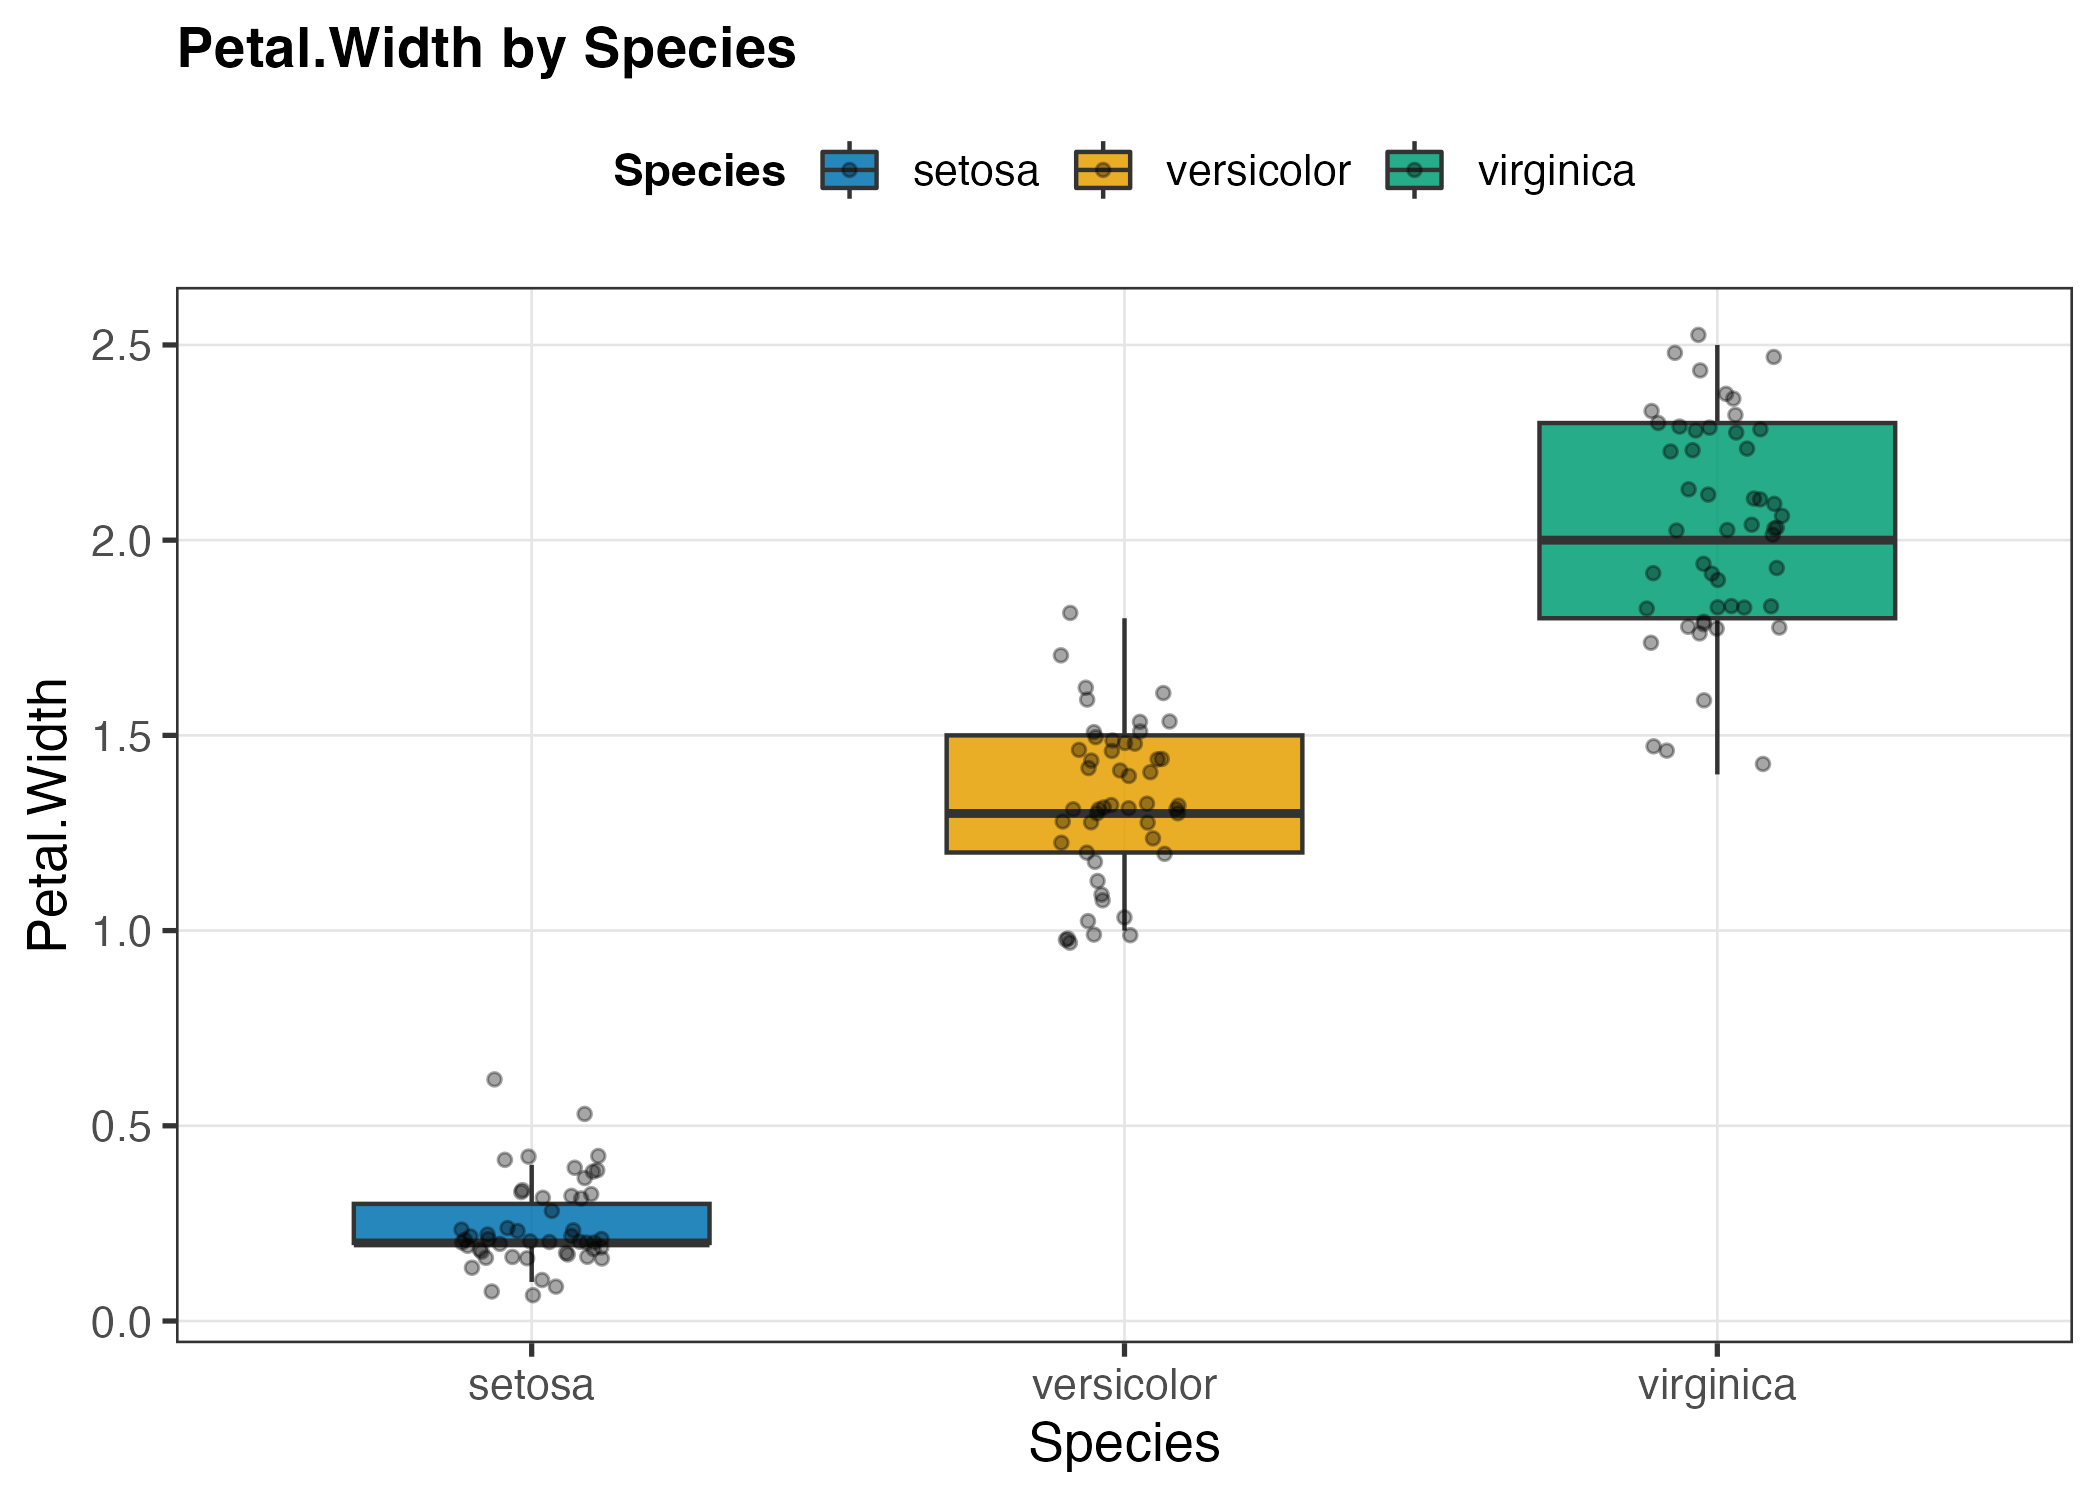
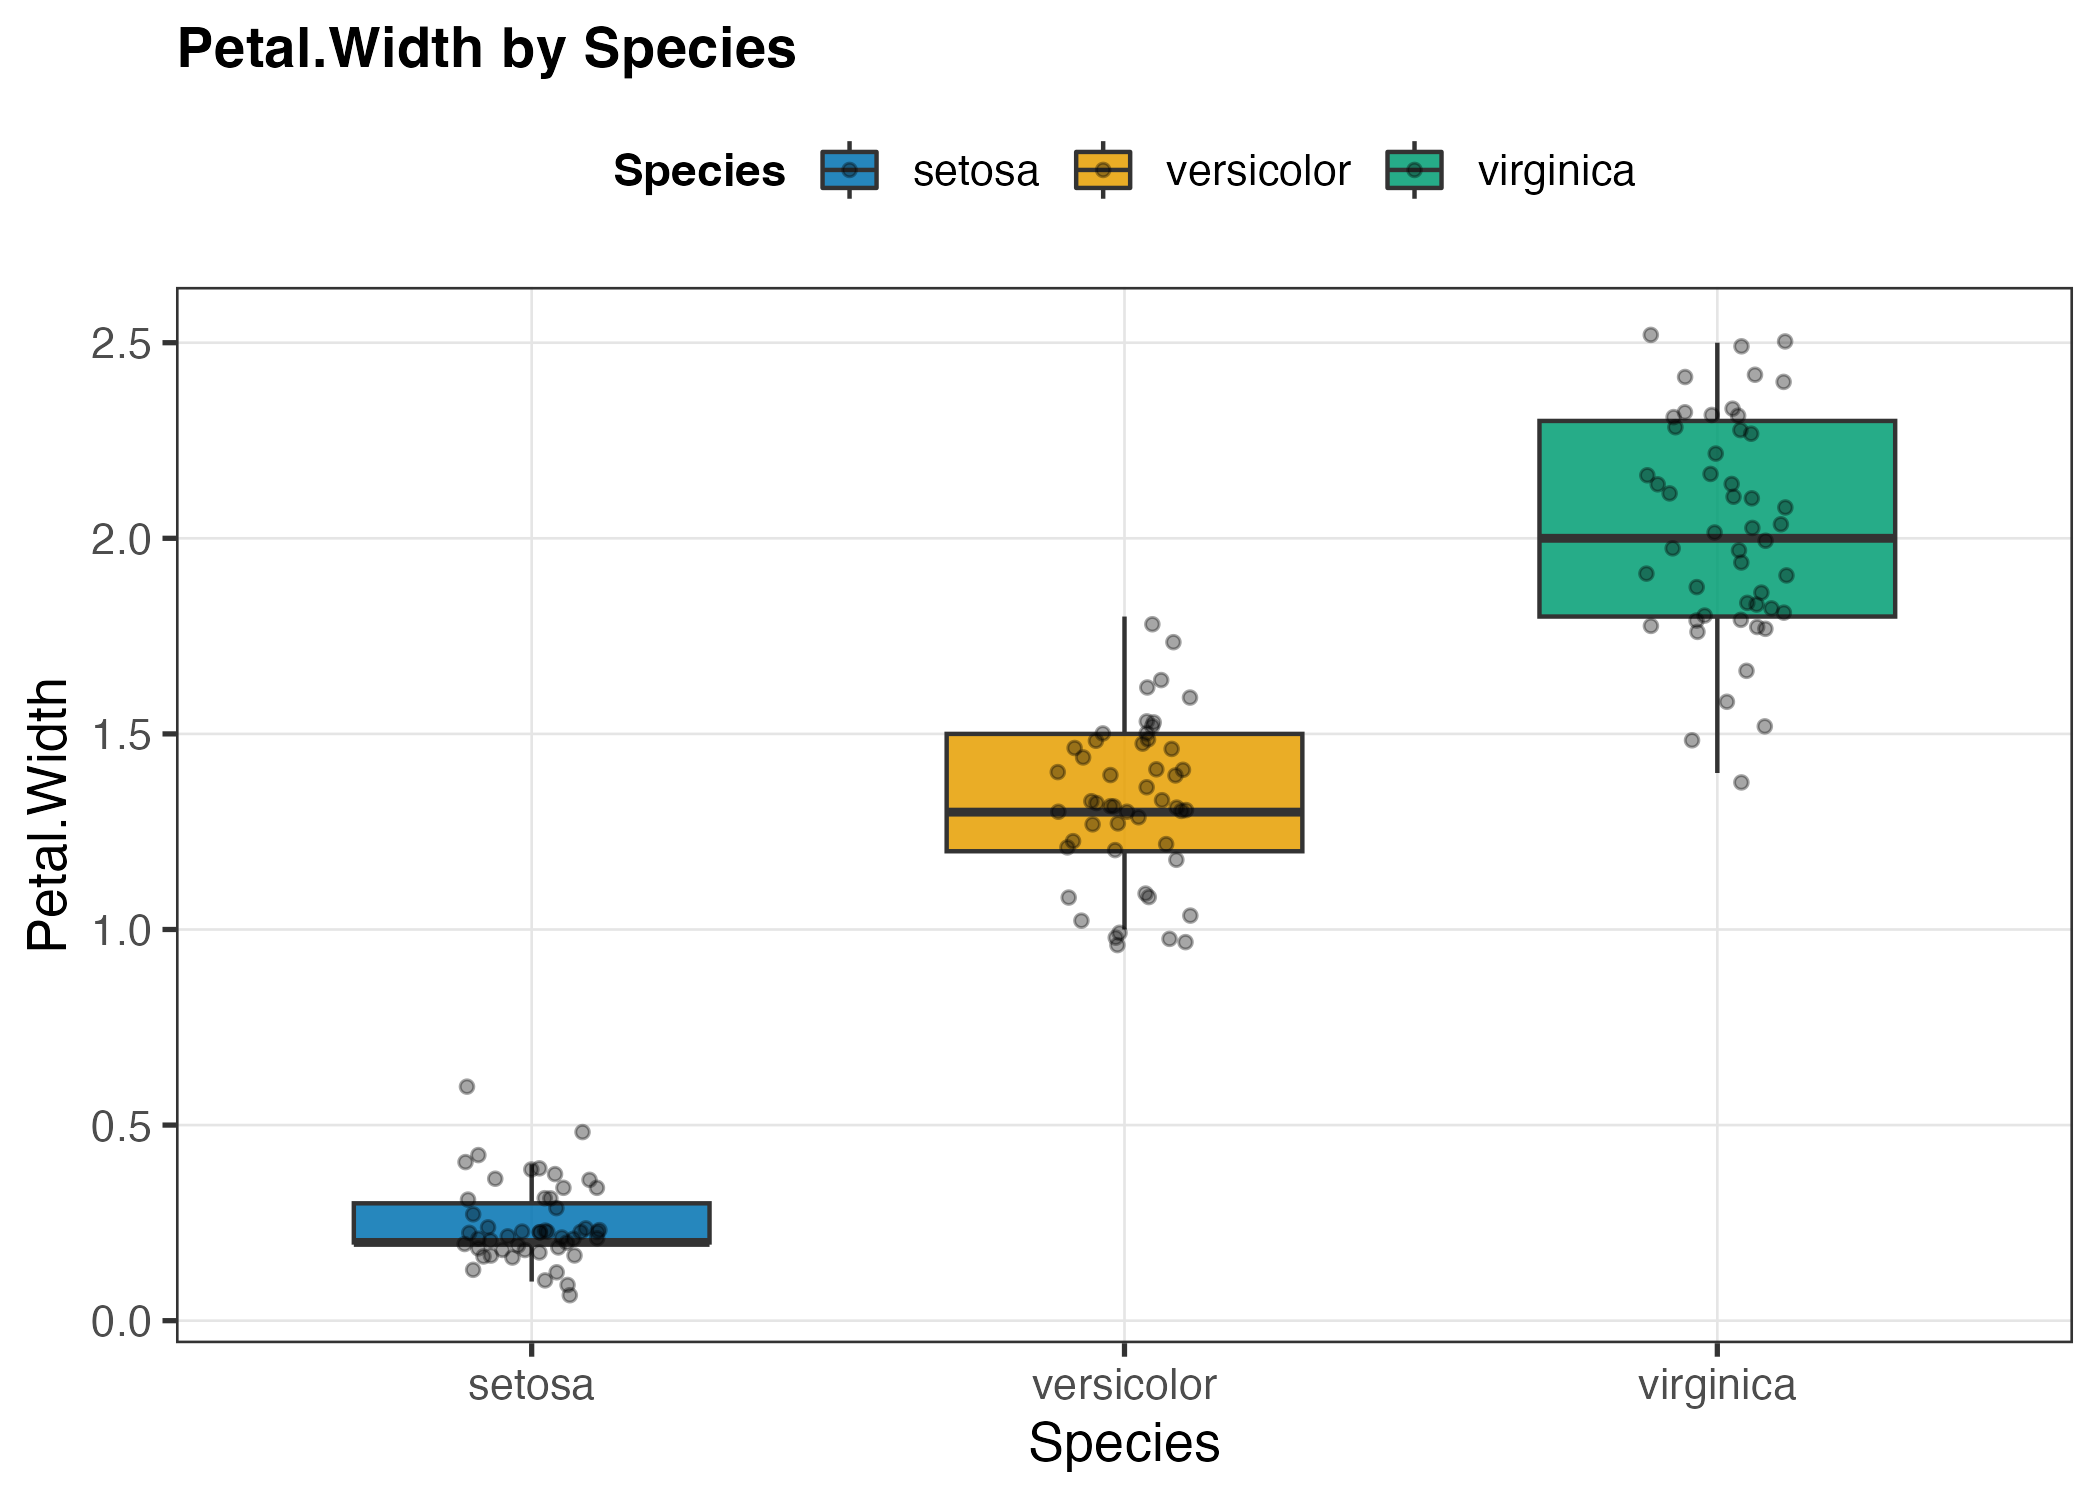
fix: r-dataviz explorer skill

diff --git a/skills/r-dataviz-explorer/SKILL.md b/skills/r-dataviz-explorer/SKILL.md
@@ -33,8 +33,10 @@ Turns a raw CSV/Excel file into publication-quality, colorblind-safe R visualiza
                column (if any) and which relationships matter.
 3. EXPLORE   -> Rscript scripts/02_explore_columns.R <file> <output_dir> scripts/cb_theme.R
                One diagnostic plot per column (including a count-over-time
-               line for datetime columns) + correlation matrix (Pearson or
-               Spearman, chosen by normality) if >=2 numeric columns. Routes
+               line for datetime columns, auto-binned to week/month once
+               daily resolution would just be noise) + correlation matrix
+               (Pearson or Spearman, chosen by normality) if >=2 numeric
+               columns. Routes
                each continuous-by-group comparison to Welch's t/Mann-Whitney
                (2 groups) or ANOVA+Tukey/Kruskal-Wallis+Dunn (3+ groups)
                based on per-group Shapiro-Wilk + Levene's test, and runs
@@ -59,14 +61,23 @@ Turns a raw CSV/Excel file into publication-quality, colorblind-safe R visualiza
                a Simpson's-paradox pairing doesn't go unnoticed), correlation
                heatmap (one triangle, diagonal dropped), group counts —
                styled with the colorblind-safe theme, saved at 300 DPI.
+               Also writes final_plots_log.txt — ggsave() warnings (e.g. NAs
+               dropped from a boxplot) fire at render time same as step 3's,
+               so they're captured the same way rather than only hitting
+               stderr.
 6. VERIFY    -> Rscript scripts/04_review_checks.R <file> <output_dir>
                Mechanical version of step 4's read-the-log-and-open-the-PNGs
                check: confirms every profiled column shows up in the log,
                flags high missingness and near-zero-variance columns, checks
-               each column's log line matches its role, and flags any final/
-               PNG small enough to be blank. Doesn't replace opening the
-               plots — it catches what's checkable in code so step 4 can
-               focus on judgment calls.
+               each column's log line matches its role (specifically: a
+               continuous column whose line carries the categorical branch's
+               "unique values" text — the "unique per column, not by naive
+               is.numeric()" contamination this skill exists to prevent),
+               flags any final/ PNG small enough to be blank, and surfaces
+               any warning final_plots_log.txt captured (a final figure may
+               be quietly missing rows). Doesn't replace opening the plots —
+               it catches what's checkable in code so step 4 can focus on
+               judgment calls.
 ```
 
 Steps 3-4 are a loop, not a straight line — re-run after every fix until the log and plots make sense. This mirrors what happened building this skill: the first pass plotted mtcars's binary `vs`/`am` columns as density curves, which was wrong and got caught by reading the log and looking at the plots (see `examples/mtcars_walkthrough.md`).
@@ -110,8 +121,8 @@ Full palette hex codes and rules (why not red/green, viridis over jet, redundant
 
 - `scripts/01_profile_data.R` — column profiler (type/role/missingness/cardinality + suggested plot & test), writes `session_info.txt`
 - `scripts/02_explore_columns.R` — per-column diagnostic plots + routed stat tests + `exploration_log.txt` + `column_stats.csv`
-- `scripts/03_final_plots.R` — curated final colorblind-safe figure set with a combined summary panel
-- `scripts/04_review_checks.R` — mechanical log-completeness/missingness/variance/blank-PNG checks, writes `review_checklist.txt`
+- `scripts/03_final_plots.R` — curated final colorblind-safe figure set with a combined summary panel + `final_plots_log.txt`
+- `scripts/04_review_checks.R` — mechanical log-completeness/missingness/variance/blank-PNG/dropped-row checks, writes `review_checklist.txt`
 - `scripts/cb_theme.R` — `theme_cb()`, `scale_*_cb_d()`/`scale_*_cb_c()`, `save_cb_plot()`
 - `references/column_to_plot_guide.md` — full classification + plot + test decision logic
 - `references/plot_gallery.md` — ggplot2 chart catalog organized by purpose
@@ -119,7 +130,7 @@ Full palette hex codes and rules (why not red/green, viridis over jet, redundant
 - `examples/iris_walkthrough.md` — worked example: 4 continuous + 1 categorical column
 - `examples/mtcars_walkthrough.md` — worked example: 11 numeric columns, includes the self-correction step
 
-`01`, `03`, and `04` require `readr`, `readxl`, `dplyr` (plus `purrr`/`tibble` for `01`, `forcats`/`ggplot2`/`patchwork` for `03`). `02` additionally requires `car` (Levene's test) and `rstatix` (Dunn's post-hoc test) on top of `ggplot2`/`forcats` — install with `install.packages(c("car", "rstatix"))` if missing; each script checks for its own required packages up front and stops with an explicit list rather than failing inside a bare `library()` call. Verified end-to-end against R 4.1.2 / ggplot2 3.5.1 / patchwork 1.1.2 and separately against R 4.3.3 / ggplot2 3.4.4 / patchwork 1.2.0 (where the combined summary panel renders directly, without the `tryCatch` fallback below) using the iris and mtcars datasets.
+`01`, `03`, and `04` require `readr`, `readxl`, `dplyr` (plus `purrr`/`tibble` for `01`, `forcats`/`ggplot2`/`patchwork` for `03`). `02` additionally requires `car` (Levene's test) and `rstatix` (Dunn's post-hoc test) on top of `ggplot2`/`forcats` — install with `install.packages(c("car", "rstatix"))` if missing; each script checks for its own required packages up front and stops with an explicit list rather than failing inside a bare `library()` call. Verified end-to-end against R 4.1.2 / ggplot2 3.5.1 / patchwork 1.1.2 and separately against R 4.3.3 / ggplot2 3.4.4 / patchwork 1.2.0 / car 3.1.2 / rstatix 0.7.2 (where the combined summary panel renders directly, without the `tryCatch` fallback below) using the iris, mtcars, and `.xlsx` inputs, plus degenerate inputs (1 column, 2 rows, tiny/uneven groups).
 
 ## Common Mistakes
 

diff --git a/skills/r-dataviz-explorer/examples/mtcars_walkthrough.md b/skills/r-dataviz-explorer/examples/mtcars_walkthrough.md
@@ -116,6 +116,27 @@ This is a version incompatibility between `patchwork` 1.1.2 and `ggplot2` 3.5.1'
 
 **A third issue, found by checking the output directory, not just the console log:** the first version of the `tryCatch` fix left a `final_summary.png` behind anyway — 0 bytes of useful content, just a blank white 3600x2700 image. `ggsave()` opens its PNG device before the guide-collection error fires, so `on.exit(dev.off())` still flushes an empty file even though the plot itself never rendered. A directory listing alone said "success" (`final_summary.png` exists); opening the file said otherwise. The fix: `unlink(summary_path)` inside the error handler, so a failed combine leaves no file rather than a misleading blank one. Lesson: checking that a script *produced a file* is not the same as checking that the file is *correct* — open the output. (`scripts/04_review_checks.R` now flags any `final/*.png` under 3KB as a blank-file suspect, for exactly this reason.)
 
+**A fourth issue, found by trying to break `04_review_checks.R` on purpose:** its role-vs-log check for `continuous` columns read `!any(grepl("Shapiro-Wilk|-> eda_", plot_line))`. Every `[plot]` line contains `-> eda_...` by filename convention — the check could never fire, on any dataset, mis-routed or not. Confirmed by editing `mpg`'s log line into the bar-chart form (`| 25 unique values`) while leaving its profiled role as `continuous`: `04` still reported 0 WARN. The fix flips the check around — a `continuous` column's line shouldn't contain the *other* branches' signature text ("unique values"), which is a condition that can actually be false:
+
+```r
+# before (vacuous — always true, since every [plot] line has "-> eda_"):
+if (role == "continuous" && !any(grepl("Shapiro-Wilk|-> eda_", plot_line)))
+# after (checks for cross-contamination from the categorical/discrete branch):
+if (role == "continuous" && any(grepl("unique values", plot_line)))
+```
+
+Two related gaps closed at the same time: `03_final_plots.R` picked up the same `withCallingHandlers()` warning capture `02` already had (it previously dropped its `ggsave()` warnings — e.g. rows excluded from a boxplot — to stderr with no log at all, so a final figure could quietly lose data with nothing recorded), and `04_review_checks.R` gained a Check 6 that reads `final_plots_log.txt` and flags any captured warning. Tagged `[note]`, not `[warn]`, though: the "known patchwork mismatch" message from the third issue above is expected and already self-explained, and tagging it identically to a real dropped-row warning would make Check 6 unable to tell "handled" from "look into this."
+
+## Step 6: Verify
+
+```
+Rscript scripts/04_review_checks.R mtcars.csv out_mtcars
+```
+
+```
+0 FAIL, 0 WARN, 7 PASS
+```
+
 ## Takeaways
 
 - `disp` and `cyl` are the most correlated pair (Spearman rho=0.93) — engine displacement scales directly with cylinder count, unsurprising but worth confirming rather than assuming.

diff --git a/skills/r-dataviz-explorer/examples/iris_walkthrough.md b/skills/r-dataviz-explorer/examples/iris_walkthrough.md
@@ -79,6 +79,20 @@ Panel C (below) is the correlation matrix, masked to one triangle with the diago
 
 Panel B (`Petal.Length` vs. `Petal.Width` scatter, not pictured here) reports "Spearman rho = 0.94 (within-group: 0.27 / 0.79 / 0.36)" in its subtitle — the overall correlation is much stronger than any single species' internal correlation, a mild Simpson's-paradox-flavored pattern worth noticing before quoting the pooled 0.94 as if it held within each species.
 
+`03_final_plots.R` also writes `out_iris/final_plots_log.txt`, the same way step 3 writes `exploration_log.txt` — a `ggsave()` warning (dropped rows, an `NA`-related re-leveling) fires at render time, so it's captured the same way in both steps rather than only reaching stderr. On this clean dataset it's empty.
+
+## Step 6: Verify
+
+```
+Rscript scripts/04_review_checks.R iris.csv out_iris
+```
+
+```
+0 FAIL, 0 WARN, 7 PASS
+```
+
+Every column is accounted for in the log, no missingness or near-zero-variance flags, all 4 `final/*.png` files are a healthy size, and `final_plots_log.txt` is clean. This mechanically confirms what Step 4 already established by eye.
+
 ## Takeaways
 
 - Species clearly separates on petal measurements (large Kruskal-Wallis chi-squared, tiny p-values) — worth calling out explicitly in any write-up rather than just handing over the plots.
